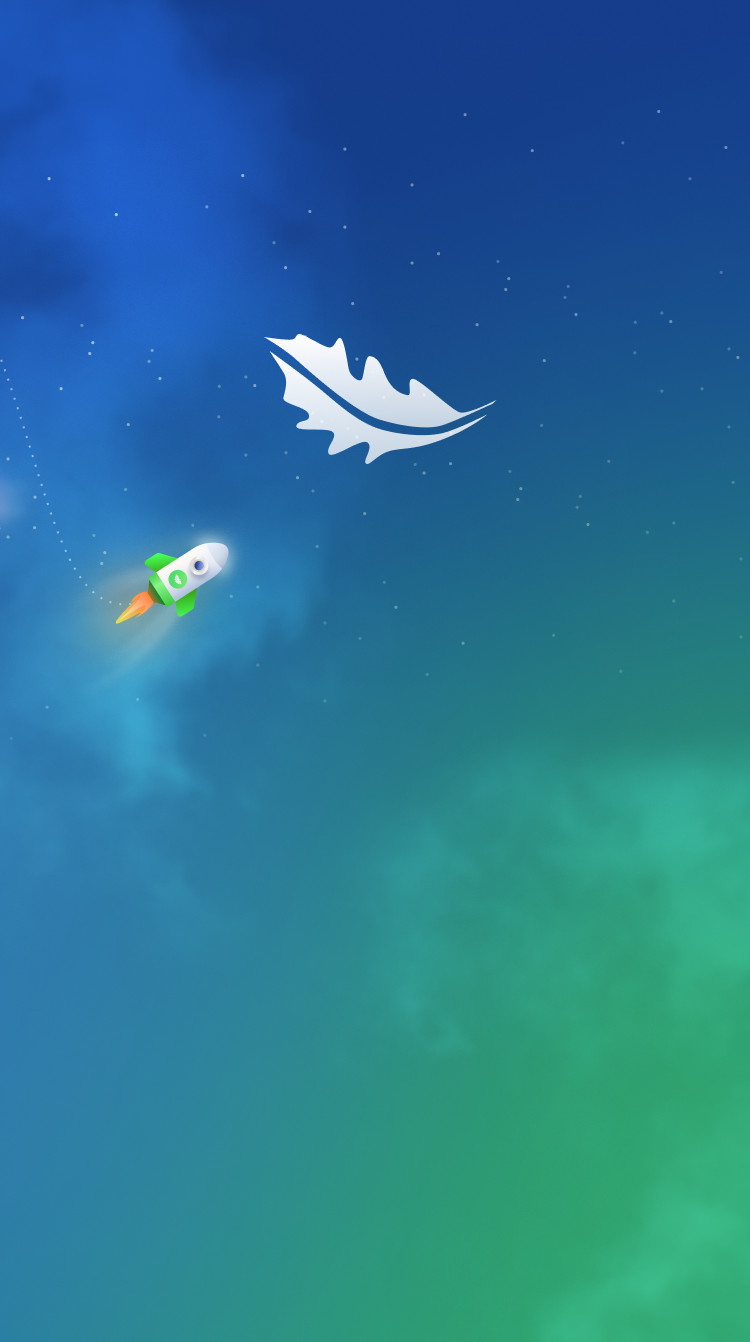
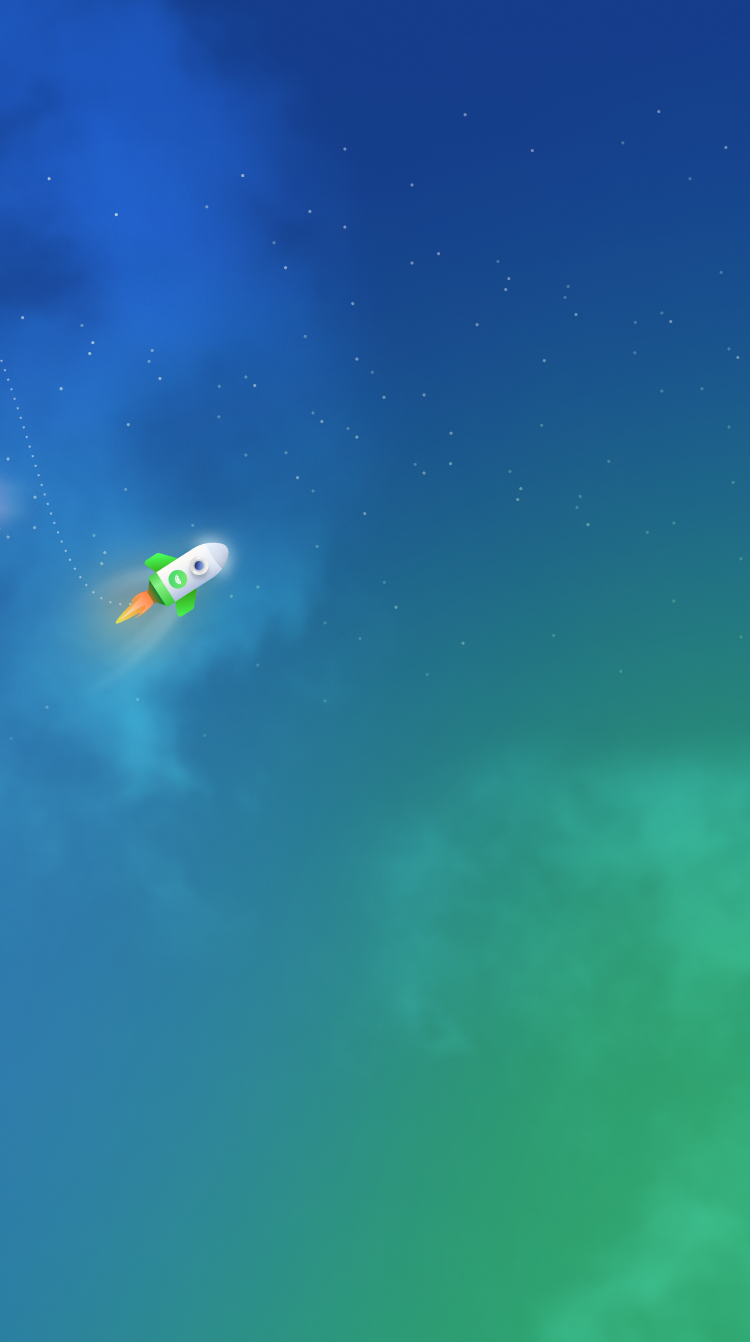
feat: signin screen

Changed region(s): [[0.368, 0.2444, 0.644, 0.3666]]

diff --git a/assets/icons/CompanyIcon.tsx b/assets/icons/CompanyIcon.tsx
@@ -1,0 +1,42 @@
+import React, {type FC} from 'react';
+import Svg, {Defs, LinearGradient, Path, Stop} from 'react-native-svg';
+import {type IconProps} from '../../models/Icon';
+
+const CompanyIcon: FC<IconProps> = ({width = 117, height = 65}) => {
+  return (
+    <Svg width={width} height={height} viewBox="0 0 117 65" fill="none">
+      <Path
+        d="M116.244 32.9373C116.244 32.9373 102.503 40.0445 98.2385 39.2548C93.9741 38.4651 77.5148 22.0473 74.2588 22.4111C71.0028 22.775 74.5475 31.1999 71.7046 30.5682C65.1966 29.2526 62.0112 24.3591 59.7921 18.5598C57.5729 12.7606 55.1656 11.2341 52.7677 11.0857C50.3699 10.9374 50.005 22.0373 48.6454 22.9871C47.2859 23.9368 42.9984 21.3369 42.2337 16.9103C41.1308 10.5265 39.8183 2.44533 38.081 1.9715C36.3436 1.49769 35.5364 7.03516 32.5356 6.71927C29.5347 6.40341 19.4537 -0.305074 17.5584 0.0108117C15.6631 0.326678 16.4257 2.29697 13.8987 2.77078C11.3717 3.2446 0 1.50727 0 1.50727C0 1.50727 9.9502 7.35103 15.4781 12.2472C21.006 17.1433 44.8549 38.939 58.1218 42.8875C71.3887 46.8359 82.4445 47.4677 88.2883 45.8883C94.1321 44.3089 114.348 34.8325 114.348 34.8325L116.244 32.9373Z"
+        fill="url(#paint0_linear_1_1528)"
+      />
+      <Path
+        d="M111.744 40.1221C111.744 40.1221 104.107 46.9023 89.5537 52.5994C75.0008 58.2964 68.6253 56.6922 62.3722 58.6529C56.1191 60.6136 52.7403 66.1832 50.9973 64.7743C49.1289 63.264 54.8724 57.0137 51.8659 54.3503C48.8595 51.6868 34.2884 62.9061 32.3931 59.9052C30.4978 56.9044 37.1177 51.6517 34.4328 49.0457C31.7478 46.4397 15.3221 49.2826 16.1907 45.8869C17.0594 42.4912 23.4097 44.5477 22.4294 40.359C21.449 36.1704 8.84101 35.2171 9.72082 31.6882C10.6006 28.1594 12.1948 23.2315 9.70946 19.2133C7.22425 15.1951 2.69458 8.47301 2.76572 8.45523C2.76572 8.45523 19.7442 20.5376 29.6944 28.9084C39.6446 37.2792 48.4893 45.0183 59.3871 47.9402C70.2849 50.862 82.5253 51.4148 90.0274 49.3616C97.5295 47.3084 111.744 40.1221 111.744 40.1221H111.744Z"
+        fill="url(#paint1_linear_1_1528)"
+      />
+      <Defs>
+        <LinearGradient
+          id="paint0_linear_1_1528"
+          x1="58.1218"
+          y1="0"
+          x2="58.1218"
+          y2="46.6898"
+          gradientUnits="userSpaceOnUse">
+          <Stop stopColor="white" />
+          <Stop offset="1" stopColor="white" stopOpacity="0.74" />
+        </LinearGradient>
+        <LinearGradient
+          id="paint1_linear_1_1528"
+          x1="57.2546"
+          y1="8.45523"
+          x2="57.2546"
+          y2="65"
+          gradientUnits="userSpaceOnUse">
+          <Stop stopColor="white" />
+          <Stop offset="1" stopColor="white" stopOpacity="0.74" />
+        </LinearGradient>
+      </Defs>
+    </Svg>
+  );
+};
+
+export default CompanyIcon;

diff --git a/components/Screens/Onboarding/OnboardingMain.tsx b/components/Screens/Onboarding/OnboardingMain.tsx
@@ -4,25 +4,20 @@ import {
   Text,
   View,
   ImageBackground,
-  StatusBar,
   TouchableOpacity,
 } from 'react-native';
 import React from 'react';
 import {SwiperFlatList} from 'react-native-swiper-flatlist';
-import MyStatusBar from '../../MyStatusBar';
+
 import {PaginationComponent} from './PaginationComponent';
 import {colors, stylesConst} from '../../../constants';
 import ProfileIcon from '../../../assets/icons/ProfileIcon';
-
-const STATUSBAR_HEIGHT = StatusBar.currentHeight;
+import CompanyIcon from '../../../assets/icons/CompanyIcon';
 
 const OnboardingMain = () => {
   return (
     <View style={styles.container}>
-      <View style={styles.containerAbsolute}>
-        <MyStatusBar barStyleT="dark-content" colorStatus="transparent" />
-      </View>
-      <TouchableOpacity style={styles.prfileStyle}>
+      <TouchableOpacity style={styles.profileStyle}>
         <ProfileIcon />
       </TouchableOpacity>
       <SwiperFlatList
@@ -134,7 +129,18 @@ const OnboardingMain = () => {
           source={require('../../../assets/welcome7.png')}
           imageStyle={styles.backgroundImageContainer}
           style={styles.child}>
-          <Text>23</Text>
+          <View style={{paddingTop: 167, alignItems: 'center', gap: 16}}>
+            <CompanyIcon />
+            <View style={{marginTop: 63}}>
+              <Text
+                style={[stylesConst.text_title_32_e, {textAlign: 'center'}]}>
+                Добро{'\n'}пожаловать в Saleads.pro
+              </Text>
+              <Text style={stylesConst.text_14_r}>
+                Вы можете войти в личный кабинет
+              </Text>
+            </View>
+          </View>
         </ImageBackground>
       </SwiperFlatList>
     </View>
@@ -153,8 +159,8 @@ const styles = StyleSheet.create({
     paddingRight: 72,
     flex: 1,
     gap: 4,
-    top: STATUSBAR_HEIGHT,
-    marginTop: 26,
+    top: 26,
+
     width: '100%',
   },
   paginationStyleItem: {
@@ -173,11 +179,11 @@ const styles = StyleSheet.create({
     paddingLeft: 34,
     paddingRight: 45,
   },
-  prfileStyle: {
+  profileStyle: {
     position: 'absolute',
     right: 11,
     zIndex: 3,
-    top: STATUSBAR_HEIGHT,
+
     marginTop: 9,
     width: 40,
     height: 40,

diff --git a/components/Screens/Onboarding/PaginationComponent.tsx b/components/Screens/Onboarding/PaginationComponent.tsx
@@ -1,11 +1,7 @@
 import {PaginationProps} from 'react-native-swiper-flatlist';
 import React from 'react';
 import {I18nManager, StyleSheet, TouchableOpacity, View} from 'react-native';
-import {
-  colors,
-  horizontal,
-  vertical,
-} from 'react-native-swiper-flatlist/src/themes';
+import {colors, horizontal} from 'react-native-swiper-flatlist/src/themes';
 import {OnboardingNavbar} from './OnboardingNavbar';
 
 export const PaginationComponent: React.FC<PaginationProps> = ({
@@ -62,7 +58,6 @@ const styles = StyleSheet.create({
   container: {
     position: 'absolute',
     flexDirection: I18nManager.isRTL ? 'row-reverse' : 'row',
-    marginVertical: vertical.xxSmall,
     justifyContent: 'center',
     alignSelf: 'center',
     bottom: 0,
